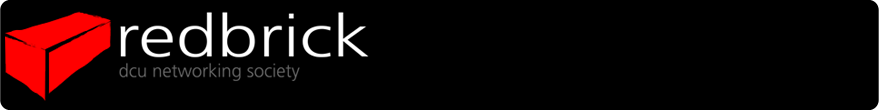
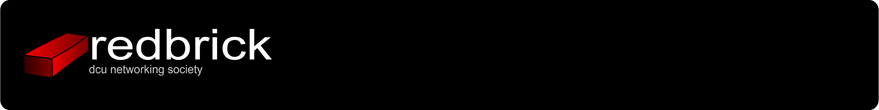
tided up html yay seperate files

Changed region(s): [[0.0, 0.1091, 0.43, 0.9], [0.3072, 0.1091, 0.3379, 0.1636]]

diff --git a/templates/base.html b/templates/base.html
@@ -7,22 +7,12 @@
     </head>
     <body>
     	<div class="container">
-    		<div class="primary_header">Header stuff goes here</div>
-    		
-    		<div class="main_area">
-    		<!--	<div class="top_menu"><ul><img src="/media/images/downarrow.png" alt="Home"><li>Home</li><img src="/media/images/downarrow.png" alt="Home"><li>About</li><img src="/media/images/downarrow.png" alt="Home"><li>Events</li><img src="/media/images/downarrow.png" alt="Home"><li>Community</li><img src="/media/images/downarrow.png" alt="Home"><li>Services</li></ul></div> -->
-    			<div class="main_area_left">
+    		<div class="primary_header">Header stuff goes here
+			</div>
+			{% include 'Banner_menu.html' %}					
 
-    			</div>
-				<div class ="main_area_boxes">
-					<div class = "main_area_box1">
-					</div>
-					<div class = "main_area_box2">
-					</div>
-					<div class = "main_area_box3">
-					</div>
-				</div>
-    		</div>
+    		<!-- News box section.-->
+			{% include 'Homepage_mainArea.html' %}					
     	</div>
     </body>
 </html>

diff --git a/templates/Homepage_mainArea.html b/templates/Homepage_mainArea.html
@@ -1,0 +1,13 @@
+				<div class="main_area">
+					<!--	<div class="top_menu"><ul><img src="/media/images/downarrow.png" alt="Home"><li>Home</li><img src="/media/images/downarrow.png" alt="Home"><li>About</li><img src="/media/images/downarrow.png" alt="Home"><li>Events</li><img src="/media/images/downarrow.png" alt="Home"><li>Community</li><img src="/media/images/downarrow.png" alt="Home"><li>Services</li></ul></div> -->
+					<div class="main_area_left">
+					</div>	
+					<div class ="main_area_boxes">
+						<div class = "main_area_box1">
+						</div>
+						<div class = "main_area_box2">
+						</div>
+						<div class = "main_area_box3">
+						</div>
+					</div>
+				</div>

diff --git a/media/css/style.css b/media/css/style.css
@@ -17,7 +17,7 @@ div.container {
 div.primary_header {
 	margin-bottom: 6px;
 	width : 900px;
-	background-image : url(/media/images/Banner_tmp.png);
+	background-image : url(/media/images/Banner.png);
 	background-repeat : no-repeat;
 	background-position : left bottom;
 	height : 110px;

diff --git a/templates/Banner_menu.html b/templates/Banner_menu.html
@@ -1,0 +1,2 @@
+<div class="primary_header">Header stuff goes here
+</div>
